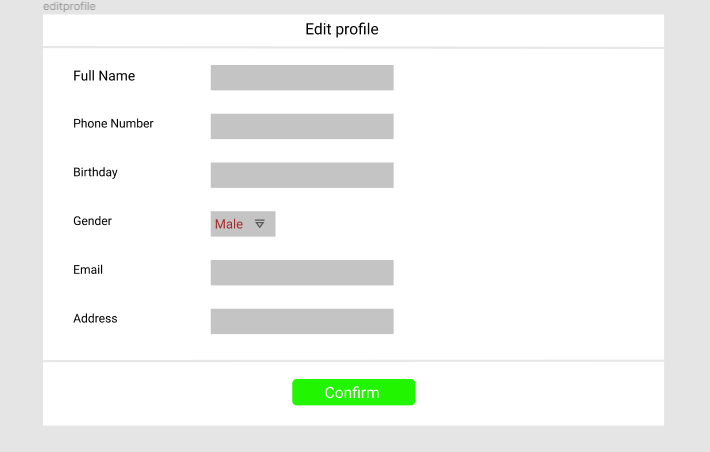
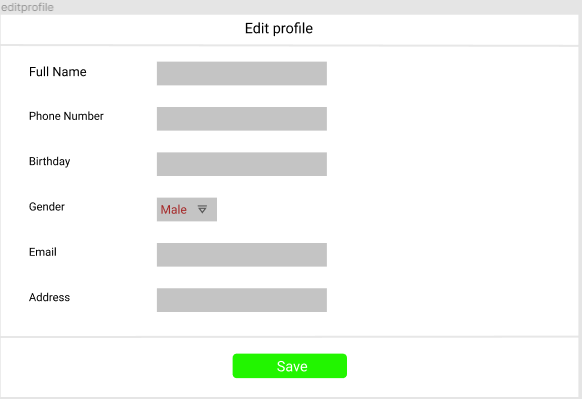
hi

diff --git a/lab/senario.html b/lab/senario.html
@@ -4,23 +4,28 @@
     <meta charset="UTF-8">
     <title>A30</title>
     <link rel="stylesheet" href="../css/overlays/lab.css">
+    <link rel="stylesheet" href="../lib/fontawesome-free-5.10.2-web/css/all.css">
 </head>
 <body>
 <div class="senariocontainer">
-    <h4>Điện thoại Samsung galaxy A30S</h4>
+    <h4 class="phonename">Điện thoại Samsung galaxy A30S</h4>
+    <div class="line"></div>
     <div class="senariocontent">
         <div class="imgphone">
-        <img width="500px" height="500px" src="../img/201909280944242748_A9.png;trim.png">
+            <img width="400px" height="400px" src="../img/201909280944242748_A9.png;trim.png">
         </div>
         <div class="detailprice">
             <div class="price">
                 <p>Giá:<strong>5.999.000 đ</strong></p>
             </div>
             <div class="sale">
-                <h4>Khuyến mãi</h4>
-                <p>Giảm thêm 5% tối đa 200K qua VNpay QR CODE</p>
-                <p>Hỗ trợ trả góp 0% dành cho các chủ thẻ tín dụng VPBank, VIB, ShinHanBnk</p>
-                <p><strong>Bảo Hành</strong> Bảo hành 12 tháng chính hãng</p>
+                <b class="promotion_header">
+                    <i class="fa fa-gift" aria-hidden="true"></i>Khuyến mãi
+                </b>
+                <h4>Khuyến mãi:</h4>
+                <p style="color: red">Giảm thêm 5% tối đa 200K qua VNpay QR CODE</p>
+                <p style="color: red">Hỗ trợ trả góp 0% dành cho các chủ thẻ tín dụng VPBank, VIB, ShinHanBnk</p>
+                <p style="color: red"><strong>Bảo Hành:</strong> Bảo hành 12 tháng chính hãng</p>
 
             </div>
             <div class="pickcolor">
@@ -34,9 +39,11 @@
                     function blue() {
                         alert("Bạn chọn màu xanh.")
                     }
+
                     function black() {
                         alert("Bạn chọn màu đen.")
                     }
+
                     function ckicl() {
                         alert("đã thêm vào giỏ hàng.")
                     }
@@ -59,7 +66,8 @@
             <tr itemprop="feature" itemscope="" itemtype="http://schema.org/ProductFeature" class="show">
                 <td class="text"><label class="tips" itemprop="propertyName">Độ phân giải màn hình</label></td>
                 <td class="data">HD+ (720
-                    x 1560 Pixels)</td>
+                    x 1560 Pixels)
+                </td>
             </tr>
 
             <tr itemprop="feature" itemscope="" itemtype="http://schema.org/ProductFeature" class="show">
@@ -71,19 +79,22 @@
             <tr itemprop="feature" itemscope="" itemtype="http://schema.org/ProductFeature" class="show">
                 <td class="text"><label class="tips" itemprop="propertyName">Máy ảnh chính</label></td>
                 <td class="data">Chính 25
-                    MP &amp; Phụ 8 MP, 5 MP</td>
+                    MP &amp; Phụ 8 MP, 5 MP
+                </td>
             </tr>
 
             <tr itemprop="feature" itemscope="" itemtype="http://schema.org/ProductFeature" class="show">
                 <td class="text"><label class="tips" itemprop="propertyName">Hệ điều hành</label></td>
                 <td class="data">Android
-                    OS</td>
+                    OS
+                </td>
             </tr>
 
             <tr itemprop="feature" itemscope="" itemtype="http://schema.org/ProductFeature" class="show">
                 <td class="text"><label class="tips" itemprop="propertyName">Chip xử lý (CPU)</label></td>
                 <td class="data">Exynos
-                    7904 8 nhân 64-bit</td>
+                    7904 8 nhân 64-bit
+                </td>
             </tr>
             <tr itemprop="feature" itemscope="" itemtype="http://schema.org/ProductFeature" class="show">
                 <td class="text"><label class="tips" itemprop="propertyName">RAM</label></td>
@@ -94,7 +105,8 @@
             <tr itemprop="feature" itemscope="" itemtype="http://schema.org/ProductFeature" class="show">
                 <td class="text"><label class="tips" itemprop="propertyName">Dung lượng pin (mAh)</label></td>
                 <td class="data">4000
-                    mAh</td>
+                    mAh
+                </td>
             </tr>
 
             </tbody>

diff --git a/css/overlays/lab.css b/css/overlays/lab.css
@@ -77,6 +77,7 @@ body{
     justify-content: center;
     margin: auto;
     font-size: 15px;
+    border: 1px solid #EDEDED;
 }
 .senariocontent{
     display: flex;
@@ -87,6 +88,7 @@ body{
     width: 100%;
     height: 80px;
     background: #ff4f65;
+    border-radius: 5px;
 }
 .price p{
    text-align: center;
@@ -94,9 +96,10 @@ body{
     padding-top: 25px;
 }
 .imgphone{
-
     /*background-image: url("../../img/201909280944242748_A9.png;trim.png");*/
     background-repeat: no-repeat;
+    border: 2px solid #EEEEEE;
+    margin-top: 5px;
 }
 .btndathang{
     width: 100%;
@@ -111,6 +114,9 @@ body{
     justify-content: space-around;
     align-items: center;
 }
+.blue,.black{
+    border-radius: 10px;
+}
 .black{
     width: 50px;
     height: 20px;
@@ -124,4 +130,44 @@ body{
 .tab-prop{
     margin-left: 50px;
     margin-top: 10px;
+}
+.sale{
+    display: flex;
+    flex-direction: column;
+    flex-flow: column;
+    padding-left: 15px;
+    margin-top: 10px;
+    border: 1px solid red;
+}
+.btnorder,.detailprice{
+    padding: 10px;
+}
+.detail{
+    padding: 10px;
+    border-radius: 5px;
+    border: 1px solid #EEEEEE;
+}
+.line{
+    width: 100%;
+    height: 3px;
+    background-color: #EEEEEE;
+}
+.phonename{
+    margin: 8px;
+}
+.promotion_header {
+    background: #e11b1e;
+    border-radius: 13px;
+    color: #fff;
+    font-size: 14px;
+    font-weight: 400;
+    position: relative;
+    width: 103px;
+    top: -13px;
+    left: 10px;
+    vertical-align: middle;
+    line-height: 26px;
+    clear: both;
+    padding: 0 15px;
+    text-transform: uppercase;
 }

diff --git a/lab/addstudent.html b/lab/addstudent.html
@@ -7,7 +7,7 @@
 </head>
 <body>
 <div class="container">
-    <h4 style="margin: auto">Search Student </h4>
+    <h4 style="margin: auto">Add Student </h4>
     <div class="br"></div>
     <div class="id">
         <p class="title">Student ID</p>

diff --git a/lab/editprofile.html b/lab/editprofile.html
@@ -43,7 +43,7 @@
     </div>
     <div class="br"></div>
     <div style="margin: auto">
-        <button class="btn" value="Add Student">Confirm</button>
+        <button class="btn" value="Add Student">Save</button>
     </div>
 </div>
 </body>

diff --git a/css/style.css b/css/style.css
@@ -509,7 +509,7 @@ img.svg{
 	clear: both;
 	float: left;
 	text-align: left;
-	padding-bottom: 100px;
+	padding-bottom: 10px;
 	position: relative;
 	
 	-webkit-box-sizing: border-box; /* Safari/Chrome, other WebKit */
